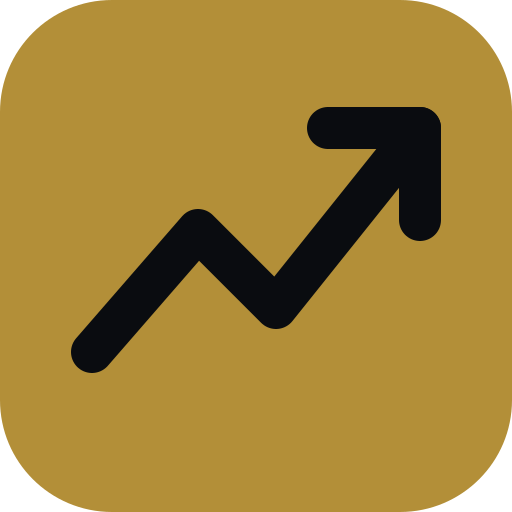
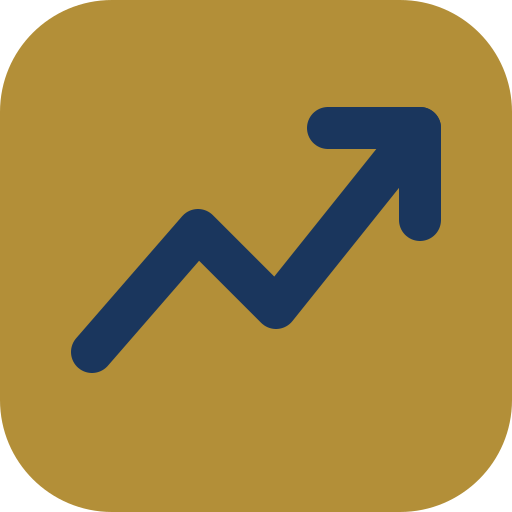
style: 포인트는 골드·네이비만, 블랙은 본문에만
골드 버튼·로고 차트는 네이비로 맞추고, 다크는 네이비 바탕에 골드 포인트로 가져간다.
블랙은 글자색으로만 쓴다.

Changed region(s): [[0.125, 0.1875, 0.875, 0.75]]

diff --git a/app/globals.css b/app/globals.css
@@ -17,10 +17,11 @@ vercel-toolbar,
 }
 
 /*
-  Investus theme tokens — 골드 × 네이비 × 잉크블랙
-  - --mint  = 앤티크 골드 (CTA·활성·로고 배경)
-  - --navy  = 옥스포드 네이비 (워드마크·강조 텍스트)
-  - --on-accent / --text = 로고 차트와 같은 잉크 블랙
+  Investus theme tokens — 포인트는 골드와 네이비만
+  - --mint       = 앤티크 골드 (CTA·활성·로고 배경)
+  - --navy       = 옥스포드 네이비 (워드마크·로고 차트·골드 위 글자)
+  - --on-accent  = 골드 위 네이비 (블랙 포인트 사용 안 함)
+  - --text       = 본문 글자 (블랙/아이보리, 포인트 아님)
   - --up / --down = 미국주식 관례 (상승 초록 · 하락 빨강)
 */
 :root {
@@ -30,18 +31,18 @@ vercel-toolbar,
   --border: #d5dbe6;
   --mint: #b38f38;
   --mint-rgb: 179, 143, 56;
-  --navy: #10203c;
-  --navy-rgb: 16, 32, 60;
+  --navy: #1a365d;
+  --navy-rgb: 26, 54, 93;
   --up: #16a34a;
   --up-rgb: 22, 163, 74;
   --down: #dc2626;
   --down-rgb: 220, 38, 38;
   --analyst: #7c3aed;
   --analyst-rgb: 124, 58, 237;
-  --text: #0a0c10;
+  --text: #12151c;
   --muted: #4e596b;
   --muted-2: #eef1f5;
-  --on-accent: #0a0c10;
+  --on-accent: #1a365d;
   --ad-surface: #ffffff;
   --ad-border: #e2e6ee;
   --header-bg: #ffffff;
@@ -51,28 +52,28 @@ vercel-toolbar,
 
 html[data-theme="dark"] {
   color-scheme: dark;
-  --bg: #07090e;
-  --card: #10141c;
-  --border: #1c2433;
+  --bg: #0c1424;
+  --card: #121c30;
+  --border: #243250;
   --mint: #d4b56a;
   --mint-rgb: 212, 181, 106;
-  --navy: #c8d0e0;
-  --navy-rgb: 200, 208, 224;
+  --navy: #d4b56a;
+  --navy-rgb: 212, 181, 106;
   --up: #22c55e;
   --up-rgb: 34, 197, 94;
   --down: #ef4444;
   --down-rgb: 239, 68, 68;
   --analyst: #8b5cf6;
   --analyst-rgb: 139, 92, 246;
-  --text: #f3f0e8;
-  --muted: #9aa3b5;
-  --muted-2: #1a2030;
-  --on-accent: #0a0c10;
-  --ad-surface: #141824;
-  --ad-border: #252c3c;
-  --header-bg: #07090e;
-  --elevated: #161b26;
-  --sidebar-label: #e6eaf2;
+  --text: #e8edf6;
+  --muted: #9aa8c0;
+  --muted-2: #1a2740;
+  --on-accent: #1a365d;
+  --ad-surface: #152036;
+  --ad-border: #2a3c5c;
+  --header-bg: #0c1424;
+  --elevated: #17243c;
+  --sidebar-label: #dce4f2;
 }
 
 html {

diff --git a/app/insight/page.tsx b/app/insight/page.tsx
@@ -34,7 +34,7 @@ export default async function InsightPage() {
     >
       <div
         className="relative px-4 py-4 flex items-center gap-3"
-        style={{ background: "linear-gradient(135deg, #10203c 0%, #0a0c10 60%, #07090e 100%)" }}
+        style={{ background: "linear-gradient(135deg, #10203c 0%, #152848 60%, #0c1424 100%)" }}
       >
         <div className="absolute inset-0 pointer-events-none"
           style={{ background: "radial-gradient(circle at 75% 50%, rgba(var(--mint-rgb),0.08) 0%, transparent 55%)" }} />
@@ -95,13 +95,13 @@ export default async function InsightPage() {
       >
       <div
         className="relative px-5 py-5 flex items-center gap-4 overflow-hidden"
-        style={{ background: "linear-gradient(135deg, #10203c 0%, #0a0c10 60%, #07090e 100%)" }}
+        style={{ background: "linear-gradient(135deg, #10203c 0%, #152848 60%, #0c1424 100%)" }}
       >
         <div className="edu-sweep-line" />
         <div className="absolute inset-0 pointer-events-none"
           style={{ background: "radial-gradient(circle at 80% 50%, rgba(var(--mint-rgb),0.12) 0%, transparent 60%)" }} />
         <div className="relative w-[68px] h-[68px] rounded-2xl flex-shrink-0 flex items-center justify-center shadow-lg"
-          style={{ background: "linear-gradient(145deg, #1a2744, #0a0c10)", border: "1px solid rgba(var(--mint-rgb),0.4)", boxShadow: "0 8px 24px rgba(var(--mint-rgb),0.2)" }}>
+          style={{ background: "linear-gradient(145deg, #1a2744, #10203c)", border: "1px solid rgba(var(--mint-rgb),0.4)", boxShadow: "0 8px 24px rgba(var(--mint-rgb),0.2)" }}>
           <span className="text-3xl">🎓</span>
         </div>
         <div className="flex-1 min-w-0">

diff --git a/app/opengraph-image.tsx b/app/opengraph-image.tsx
@@ -7,8 +7,7 @@ export const size        = { width: 1200, height: 630 };
 export const contentType = "image/png";
 
 const GOLD = "#b38f38";
-const NAVY = "#10203c";
-const INK  = "#0a0c10";
+const NAVY = "#1a365d";
 
 export default function OgImage() {
   return new ImageResponse(
@@ -59,8 +58,8 @@ export default function OgImage() {
             justifyContent: "center",
           }}>
             <svg width="58" height="58" viewBox="0 0 24 24" fill="none">
-              <polyline points="3,17 9,11 13,15 21,7" stroke={INK} strokeWidth="2.5" strokeLinecap="round" strokeLinejoin="round" />
-              <polyline points="15,7 21,7 21,13" stroke={INK} strokeWidth="2.5" strokeLinecap="round" strokeLinejoin="round" />
+              <polyline points="3,17 9,11 13,15 21,7" stroke={NAVY} strokeWidth="2.5" strokeLinecap="round" strokeLinejoin="round" />
+              <polyline points="15,7 21,7 21,13" stroke={NAVY} strokeWidth="2.5" strokeLinecap="round" strokeLinejoin="round" />
             </svg>
           </div>
 

diff --git a/app/education/page.tsx b/app/education/page.tsx
@@ -125,7 +125,7 @@ export default function EducationPage() {
 
   const heroJSX = (
     <div className="rounded-2xl px-5 py-6 mb-6 relative overflow-hidden"
-        style={{ background: "linear-gradient(135deg, #10203c 0%, #0a0c10 60%, #07090e 100%)", border: "1px solid rgba(var(--mint-rgb),0.3)" }}>
+        style={{ background: "linear-gradient(135deg, #10203c 0%, #152848 60%, #0c1424 100%)", border: "1px solid rgba(var(--mint-rgb),0.3)" }}>
       <div className="absolute inset-0 pointer-events-none"
         style={{ background: "radial-gradient(circle at 80% 20%, rgba(var(--mint-rgb),0.1) 0%, transparent 60%)" }} />
       <div className="inline-flex items-center gap-1 text-[9px] font-bold px-2 py-0.5 rounded-full mb-3"

diff --git a/app/subscribe/page.tsx b/app/subscribe/page.tsx
@@ -171,7 +171,7 @@ export default function SubscribePage() {
 
         <div
           className="rounded-2xl px-5 py-6 mb-5 relative overflow-hidden"
-          style={{ background: "linear-gradient(135deg, #001a12 0%, #0a0c10 100%)", border: "1px solid rgba(var(--mint-rgb),0.25)" }}
+          style={{ background: "linear-gradient(135deg, #10203c 0%, #0c1424 100%)", border: "1px solid rgba(var(--mint-rgb),0.25)" }}
         >
           <p className="text-[10px] font-bold mb-2" style={{ color: "#e8c84a" }}>✦ {SUBSCRIPTION.productName}</p>
           <h1 className="text-xl font-bold font-syne mb-2" style={{ color: "#f5f6f8" }}>

diff --git a/app/layout.tsx b/app/layout.tsx
@@ -88,8 +88,8 @@ export const metadata: Metadata = {
 
 export const viewport: Viewport = {
   themeColor: [
-    { media: "(prefers-color-scheme: light)", color: "#10203c" },
-    { media: "(prefers-color-scheme: dark)", color: "#07090e" },
+    { media: "(prefers-color-scheme: light)", color: "#1a365d" },
+    { media: "(prefers-color-scheme: dark)", color: "#0c1424" },
   ],
   width: "device-width",
   initialScale: 1,

diff --git a/contexts/ThemeContext.tsx b/contexts/ThemeContext.tsx
@@ -26,7 +26,7 @@ function applyTheme(theme: ThemeMode) {
   document.documentElement.setAttribute("data-theme", theme);
   const meta = document.querySelector('meta[name="theme-color"]');
   if (meta) {
-    meta.setAttribute("content", theme === "dark" ? "#07090e" : "#10203c");
+    meta.setAttribute("content", theme === "dark" ? "#0c1424" : "#1a365d");
   }
 }
 

diff --git a/app/manifest.ts b/app/manifest.ts
@@ -8,8 +8,8 @@ export default function manifest(): MetadataRoute.Manifest {
     start_url: "/",
     display: "standalone",
     orientation: "portrait",
-    background_color: "#07090e",
-    theme_color: "#10203c",
+    background_color: "#0c1424",
+    theme_color: "#1a365d",
     icons: [
       {
         src: "/icons/icon-192.png",

diff --git a/public/sw.js b/public/sw.js
@@ -1,4 +1,4 @@
-const CACHE = "investus-v1787056346060";
+const CACHE = "investus-v1787056657359";
 
 self.addEventListener("install", (e) => {
   // Activate immediately — don't wait for old tabs to close
